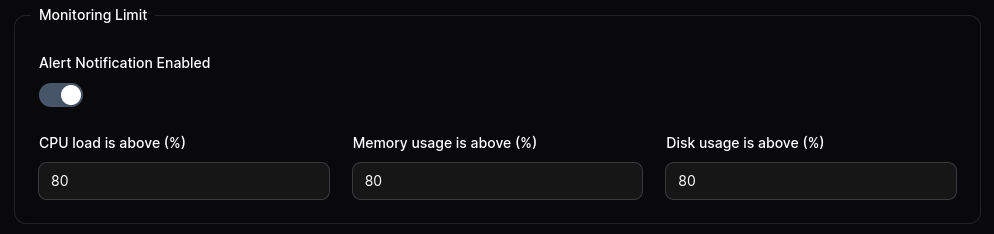
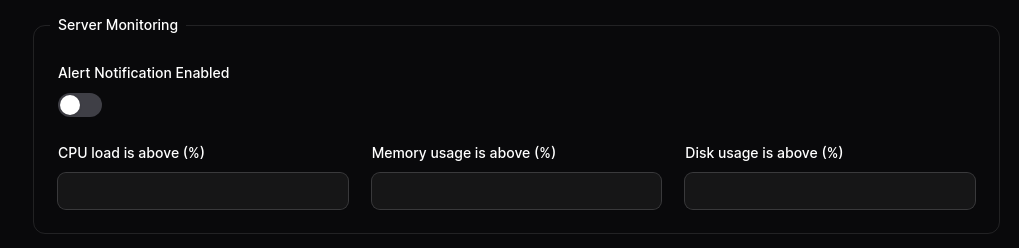
[#30] more updates

diff --git a/docs/installation.md b/docs/installation.md
@@ -51,7 +51,7 @@ Go to `/moonguard` route to check the MoonGuard admin panel page:
 
 If you don’t have any user, you can create a filament user to access to MoonGuard
 admin panel:
- 
+
 ```bash
 php artisan make:filament-user
 ```
@@ -90,138 +90,14 @@ protected function schedule(Schedule $schedule): void
     $schedule,
     '* * * * *', // <-- Uptime Check Cron
     '* * * * *', //<-- SSL Certificate Cron
-    '* * * * *', //<-- [Optional] Delete Exceptions Cron
-    '* * * * *' //<-- [Optional] Delete Server Metrics
+    '0 0 * * *', //<-- [Optional] Delete Exceptions Cron
+    '0 0 * * *' //<-- [Optional] Delete Server Metrics
   );
 }
 ```
 
 The MoonGuardCommandsScheduler is scheduled by running `php artisan schedule:run`.
-In case you want to setup individually each command  you can do it as following:
 
-## Scheduling CheckUptime Command
+It is not mandatory to use the `MoonGuardCommandsScheduler`. If you wish to
+program the commands individually, please review the [commands section](./commands.md).
 
-Scheduling the Uptime Check can be done through the `CheckUptimeCommand` class
-and Laravel's command scheduler.
-
-Go to **`app/Console/Kernel.php`** and use the `CheckUptimeCommand` class and
-add schedule the command in the `schedule()` method:
-
-```php
-<?php
-
-namespace App\Console;
-
-use Illuminate\Console\Scheduling\Schedule;
-use Illuminate\Foundation\Console\Kernel as ConsoleKernel;
-use Taecontrol\MoonGuard\Console\Commands\CheckUptimeCommand;
-
-class Kernel extends ConsoleKernel
-{
-  //...
-   /**
-   * Define the application's command schedule.
-   *
-   * @param  \Illuminate\Console\Scheduling\Schedule  $schedule
-   * @return void
-   */
-  protected function schedule(Schedule $schedule)
-  {
-    $schedule->command(CheckUptimeCommand::class)->everyMinute();
-  }
-}
-```
-
-With this, all your sites uptime status will be updated every minute.
-
-## Scheduling CheckSslCertificate Command
-
-The CheckSslCertificateCommand can also be scheduled using Laravel's command Scheduler
-and specify when the command should run in the schedule method.
-
-```php
-<?php
-
-namespace App\Console;
-
-use Illuminate\Console\Scheduling\Schedule;
-use Illuminate\Foundation\Console\Kernel as ConsoleKernel;
-use Taecontrol\MoonGuard\Console\Commands\CheckSslCertificateCommand;
-
-class Kernel extends ConsoleKernel
-{
-    /**
-   * Define the application's command schedule.
-   *
-   * @param  \Illuminate\Console\Scheduling\Schedule  $schedule
-   * @return void
-   */
-  protected function schedule(Schedule $schedule)
-  {
-      $schedule->command(CheckSslCertificateCommand::class)->everyTwoHours();
-  }
-}
-```
-
-In this case, we can set the **`CheckSslCertificateCommand`** to run every
-2 hours.
-
-## Scheduling DeleteOldException Command
-
-The DeleteOldExceptionCommand deletes all exceptions that are older than 7 days
-by default. You can change its behavior in the configuration file.
-
-```php
-<?php
-
-namespace App\Console;
-
-use Illuminate\Console\Scheduling\Schedule;
-use Illuminate\Foundation\Console\Kernel as ConsoleKernel;
-use Taecontrol\MoonGuard\Console\Commands\DeleteOldExceptionCommand;
-
-class Kernel extends ConsoleKernel
-{
-    /**
-   * Define the application's command schedule.
-   *
-   * @param  \Illuminate\Console\Scheduling\Schedule  $schedule
-   * @return void
-   */
-  protected function schedule(Schedule $schedule)
-  {
-      $schedule->command(DeleteOldExceptionCommand::class)->daily();
-  }
-}
-```
-
-## Scheduling DeleteServerMetricCommand
-
-The ""DeleteServerMetricCommand deletes all the Systems Monitoring data older than
-7 days by default. You can change its behavior in the configuration file.
-
-```php
-<?php
-
-namespace App\Console;
-
-use Illuminate\Console\Scheduling\Schedule;
-use Illuminate\Foundation\Console\Kernel as ConsoleKernel;
-use Taecontrol\MoonGuard\Console\Commands\DeleteServerMetricCommand;
-
-class Kernel extends ConsoleKernel
-{
-    /**
-   * Define the application's command schedule.
-   *
-   * @param  \Illuminate\Console\Scheduling\Schedule  $schedule
-   * @return void
-   */
-  protected function schedule(Schedule $schedule)
-  {
-      $schedule->command(DeleteServerMetricCommand::class)->daily();
-  }
-}
-```
-
-For more scheduling options, please refer to the [Laravel documentation](https://laravel.com/docs/10.x/scheduling#schedule-frequency-options).

diff --git a/docs/commands.md b/docs/commands.md
@@ -1,0 +1,137 @@
+---
+id: commands
+slug: /commands
+sidebar_position: 12
+---
+
+# Commands
+
+If you choose not to use the `MoonGuardCommandScheduler`, you can set up each
+command individually as follows:
+
+## Scheduling CheckUptime Command
+
+Scheduling the Uptime Check can be done through the `CheckUptimeCommand` class
+and Laravel's command scheduler.
+
+Go to **`app/Console/Kernel.php`** and use the `CheckUptimeCommand` class and
+add schedule the command in the `schedule()` method:
+
+```php
+<?php
+
+namespace App\Console;
+
+use Illuminate\Console\Scheduling\Schedule;
+use Illuminate\Foundation\Console\Kernel as ConsoleKernel;
+use Taecontrol\MoonGuard\Console\Commands\CheckUptimeCommand;
+
+class Kernel extends ConsoleKernel
+{
+  //...
+   /**
+   * Define the application's command schedule.
+   *
+   * @param  \Illuminate\Console\Scheduling\Schedule  $schedule
+   * @return void
+   */
+  protected function schedule(Schedule $schedule)
+  {
+    $schedule->command(CheckUptimeCommand::class)->everyMinute();
+  }
+}
+```
+
+With this, all your sites uptime status will be updated every minute.
+
+## Scheduling CheckSslCertificate Command
+
+The CheckSslCertificateCommand can also be scheduled using Laravel's command Scheduler
+and specify when the command should run in the schedule method.
+
+```php
+<?php
+
+namespace App\Console;
+
+use Illuminate\Console\Scheduling\Schedule;
+use Illuminate\Foundation\Console\Kernel as ConsoleKernel;
+use Taecontrol\MoonGuard\Console\Commands\CheckSslCertificateCommand;
+
+class Kernel extends ConsoleKernel
+{
+    /**
+   * Define the application's command schedule.
+   *
+   * @param  \Illuminate\Console\Scheduling\Schedule  $schedule
+   * @return void
+   */
+  protected function schedule(Schedule $schedule)
+  {
+      $schedule->command(CheckSslCertificateCommand::class)->everyTwoHours();
+  }
+}
+```
+
+In this case, we can set the **`CheckSslCertificateCommand`** to run every
+2 hours.
+
+## Scheduling DeleteOldException Command
+
+The DeleteOldExceptionCommand deletes all exceptions that are older than 7 days
+by default. You can change its behavior in the configuration file.
+
+```php
+<?php
+
+namespace App\Console;
+
+use Illuminate\Console\Scheduling\Schedule;
+use Illuminate\Foundation\Console\Kernel as ConsoleKernel;
+use Taecontrol\MoonGuard\Console\Commands\DeleteOldExceptionCommand;
+
+class Kernel extends ConsoleKernel
+{
+    /**
+   * Define the application's command schedule.
+   *
+   * @param  \Illuminate\Console\Scheduling\Schedule  $schedule
+   * @return void
+   */
+  protected function schedule(Schedule $schedule)
+  {
+      $schedule->command(DeleteOldExceptionCommand::class)->daily();
+  }
+}
+```
+
+## Scheduling DeleteServerMetricCommand
+
+The `DeleteServerMetricCommand` deletes all the Systems Monitoring data older than
+7 days by default. You can change its behavior in the configuration file.
+
+```php
+<?php
+
+namespace App\Console;
+
+use Illuminate\Console\Scheduling\Schedule;
+use Illuminate\Foundation\Console\Kernel as ConsoleKernel;
+use Taecontrol\MoonGuard\Console\Commands\DeleteServerMetricCommand;
+
+class Kernel extends ConsoleKernel
+{
+    /**
+   * Define the application's command schedule.
+   *
+   * @param  \Illuminate\Console\Scheduling\Schedule  $schedule
+   * @return void
+   */
+  protected function schedule(Schedule $schedule)
+  {
+      $schedule->command(DeleteServerMetricCommand::class)->daily();
+  }
+}
+```
+
+For more scheduling options, please refer to the [Laravel documentation](https://laravel.com/docs/10.x/scheduling#schedule-frequency-options).

diff --git a/docs/server-monitoring.md b/docs/server-monitoring.md
@@ -4,7 +4,7 @@ slug: /server-monitoring
 sidebar_position: 10
 ---
 
-MoonGuard provides a server monitoring system that allows you to track
+MoonGuard provides a server monitoring feature that allows you to track
 hardware variables of your server. It works with the `CheckHardwareHealthCommand`
 from [Larvis](https://github.com/taecontrol/larvis/tree/1.alpha?tab=readme-ov-file#commands)
 to monitor the CPU load, memory, and total disk usage.
@@ -41,7 +41,7 @@ class Kernel extends ConsoleKernel
 }
 ```
 
-After setting up your Larvis project, you can check the tracked variables in your
+After setting up your Laravel site with Larvis, you can check the tracked variables in your
 MoonGuard Dashboard.
 
 ![dashboard-hardware](./server-monitoring/dashboard-hardware.png)
@@ -55,16 +55,18 @@ data from the last hour, day, or week.
 ![server-monitoring2](./server-monitoring/server-monitoring2.png)
 
 ![server-monitoring3](./server-monitoring/server-monitoring3.png)
+
 ## Notifications
 
-You can setup a monitoring limit notification for each site in MoonGuard, for use
-it, you can setting on the settings of the Site and add the limit that you want.
+In MoonGuard, we can set optional percentage limits for server metric
+indicators' usage and consumption.
+
 
 ![server-monitoring-limit](./server-monitoring/server-monitoring-limit.png)
 
-After setting up your limit, you will receive a notification via Slack if the
-value exceeds the limit. Make sure you have set up your Slack notification; you
-can learn more about it in the [notification docs](./notifications/notifications-slack.md)
+If any metric indicator exceeds the limit, it can send a notification via Slack.
+Make sure you have set up your Slack notification; you can learn more about it in
+the [notification docs](./notifications/notifications-slack.md)
 
 ## Delete Server Monitoring record
 

diff --git a/docs/contributions.md b/docs/contributions.md
@@ -1,7 +1,7 @@
 ---
 id: contributions
 slug: /contributions
-sidebar_position: 13
+sidebar_position: 14
 ---
 
 # Contributions Guide

diff --git a/docs/events.md b/docs/events.md
@@ -1,7 +1,7 @@
 ---
 id: events
 slug: /events
-sidebar_position: 12
+sidebar_position: 13
 ---
 
 # Events
